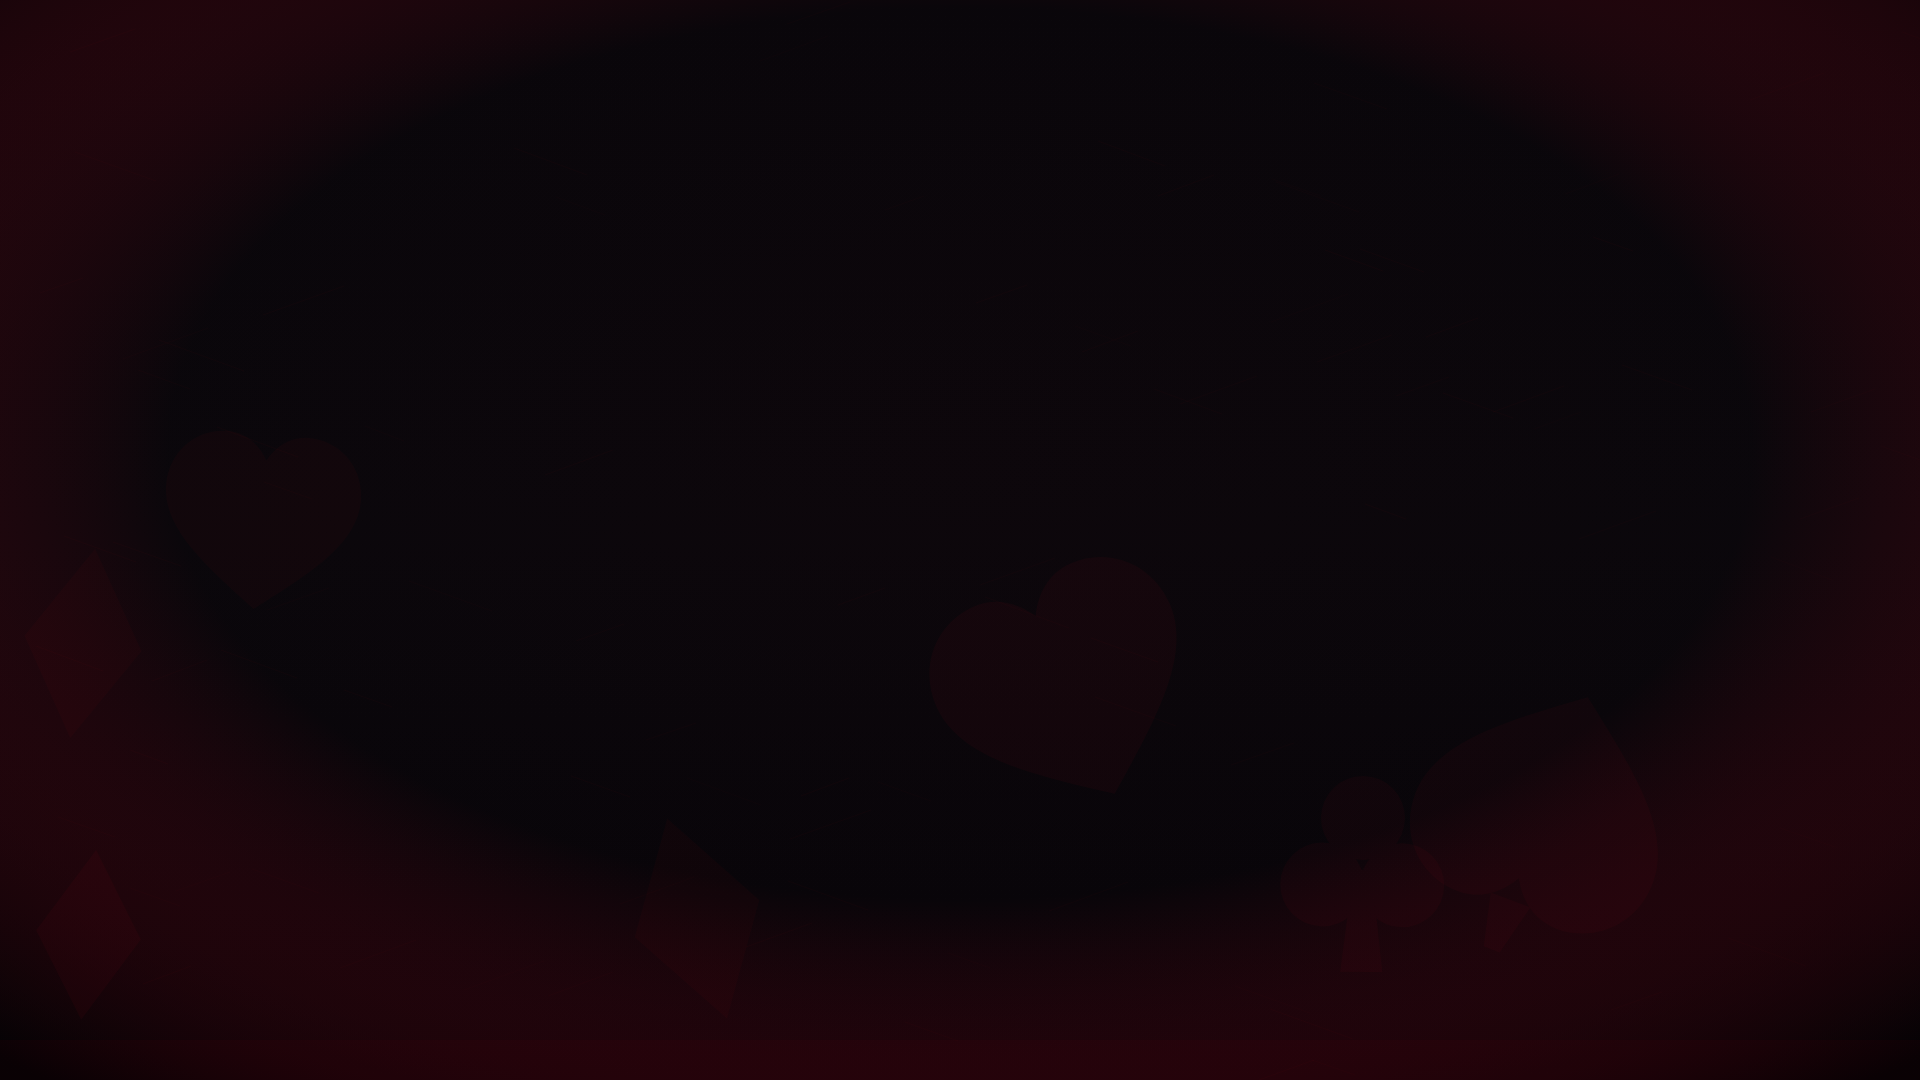
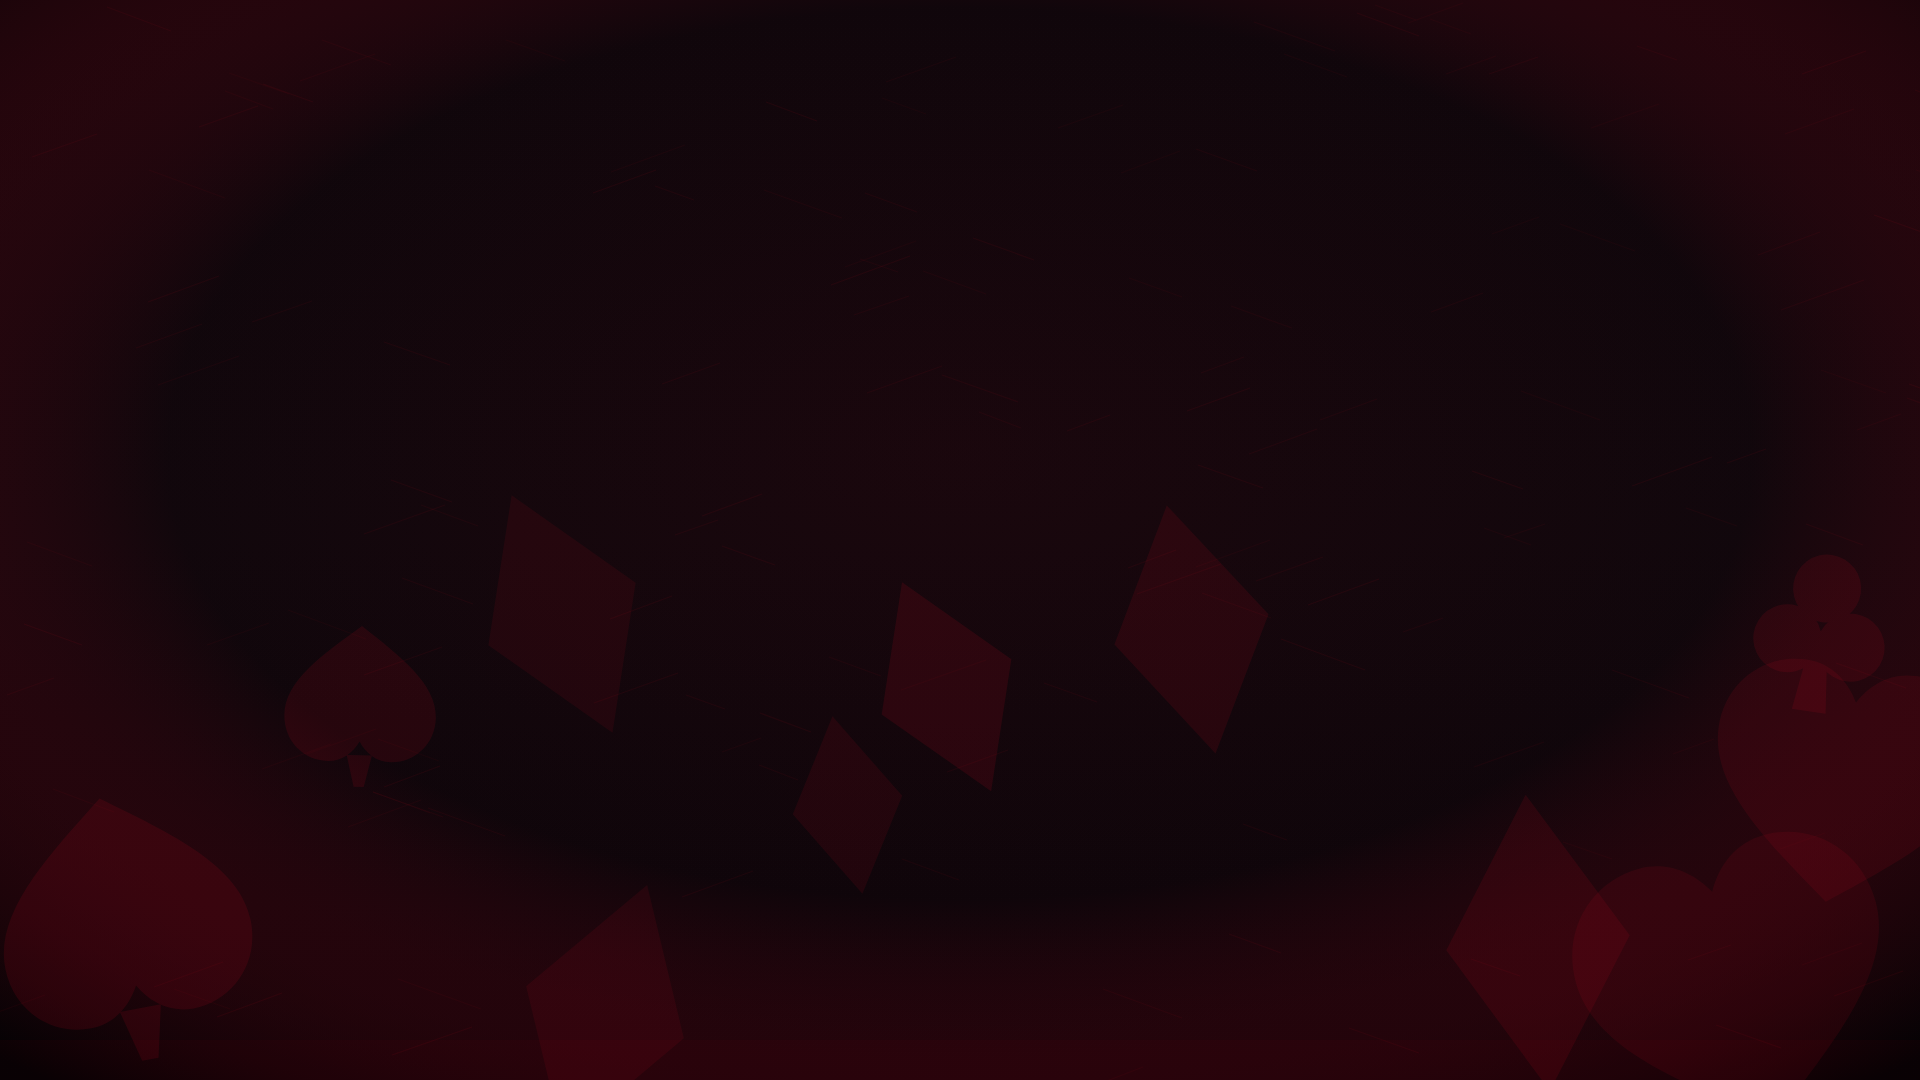
Ship v1.15: richer background images + upload-your-own-background
- The felt-table backgrounds from v1.14 were tuned so conservatively
  they barely read as an image at all. Turned up the suit-watermark and
  weave-texture opacity so it's clearly a real background, still no
  glow/light sources anywhere.
- New feature: upload your own background image from the table vibe
  picker. Stored as a data URL in localStorage (device-only, capped at
  3MB), applied immediately via a --bg-image CSS var override, and
  persisted across reloads through the existing beforeInteractive
  theme-init script so there's no flash back to the default on load.
  Picking a built-in vibe clears the custom image and reverts to that
  vibe's background.

diff --git a/src/components/game/ThemePicker.tsx b/src/components/game/ThemePicker.tsx
@@ -1,7 +1,7 @@
 "use client";
 
-import { useEffect, useState } from "react";
-import { Palette } from "lucide-react";
+import { useEffect, useRef, useState } from "react";
+import { ImageUp, Palette, X } from "lucide-react";
 import { Button } from "@/components/ui/button";
 import {
   Dialog,
@@ -10,7 +10,13 @@ import {
   DialogTitle,
   DialogTrigger,
 } from "@/components/ui/dialog";
-import { DEFAULT_THEME_ID, THEME_PRESETS, THEME_STORAGE_KEY } from "@/lib/themePresets";
+import {
+  CUSTOM_BG_MAX_BYTES,
+  CUSTOM_BG_STORAGE_KEY,
+  DEFAULT_THEME_ID,
+  THEME_PRESETS,
+  THEME_STORAGE_KEY,
+} from "@/lib/themePresets";
 import { cn } from "@/lib/utils";
 
 function readStoredTheme(): string {
@@ -18,9 +24,17 @@ function readStoredTheme(): string {
   return localStorage.getItem(THEME_STORAGE_KEY) ?? DEFAULT_THEME_ID;
 }
 
+function hasCustomBg(): boolean {
+  if (typeof window === "undefined") return false;
+  return !!localStorage.getItem(CUSTOM_BG_STORAGE_KEY);
+}
+
 export function ThemePicker() {
   const [open, setOpen] = useState(false);
   const [current, setCurrent] = useState(readStoredTheme);
+  const [customBg, setCustomBg] = useState(hasCustomBg);
+  const [uploadError, setUploadError] = useState<string | null>(null);
+  const fileInputRef = useRef<HTMLInputElement>(null);
 
   useEffect(() => {
     document.documentElement.dataset.theme = current;
@@ -29,6 +43,55 @@ export function ThemePicker() {
   function pick(id: string) {
     localStorage.setItem(THEME_STORAGE_KEY, id);
     setCurrent(id);
+    // A preset vibe should show that vibe's own background — drop any
+    // custom upload so it doesn't keep overriding --bg-image.
+    if (customBg) {
+      localStorage.removeItem(CUSTOM_BG_STORAGE_KEY);
+      document.documentElement.style.removeProperty("--bg-image");
+      setCustomBg(false);
+    }
+  }
+
+  function handleFile(e: React.ChangeEvent<HTMLInputElement>) {
+    const file = e.target.files?.[0];
+    e.target.value = "";
+    if (!file) return;
+    setUploadError(null);
+
+    if (!file.type.startsWith("image/")) {
+      setUploadError("That's not an image file.");
+      return;
+    }
+    if (file.size > CUSTOM_BG_MAX_BYTES) {
+      setUploadError(`Keep it under ${Math.round(CUSTOM_BG_MAX_BYTES / 1_000_000)}MB.`);
+      return;
+    }
+
+    const reader = new FileReader();
+    reader.onload = () => {
+      const dataUrl = reader.result;
+      if (typeof dataUrl !== "string") {
+        setUploadError("Couldn't read that image.");
+        return;
+      }
+      try {
+        localStorage.setItem(CUSTOM_BG_STORAGE_KEY, dataUrl);
+      } catch {
+        setUploadError("That image is too big to save — try a smaller one.");
+        return;
+      }
+      document.documentElement.style.setProperty("--bg-image", `url("${dataUrl}")`);
+      setCustomBg(true);
+    };
+    reader.onerror = () => setUploadError("Couldn't read that image.");
+    reader.readAsDataURL(file);
+  }
+
+  function clearCustomBg() {
+    localStorage.removeItem(CUSTOM_BG_STORAGE_KEY);
+    document.documentElement.style.removeProperty("--bg-image");
+    setCustomBg(false);
+    setUploadError(null);
   }
 
   return (
@@ -53,7 +116,7 @@ export function ThemePicker() {
               onClick={() => pick(t.id)}
               className={cn(
                 "flex items-center gap-3 rounded-lg border px-3 py-2 text-left transition-colors",
-                current === t.id
+                current === t.id && !customBg
                   ? "border-primary bg-primary/10"
                   : "border-border hover:border-foreground/30",
               )}
@@ -62,6 +125,36 @@ export function ThemePicker() {
               <span className="font-medium">{t.name}</span>
             </button>
           ))}
+        </div>
+
+        <div className="mt-1 space-y-2 border-t border-border/60 pt-3">
+          <p className="text-xs font-medium tracking-widest text-muted-foreground uppercase">
+            Custom background
+          </p>
+          {customBg ? (
+            <div className="flex items-center justify-between gap-2 rounded-lg border border-primary/40 bg-primary/10 px-3 py-2">
+              <span className="text-sm font-medium">Using your own image</span>
+              <Button variant="ghost" size="icon-sm" aria-label="Remove custom background" onClick={clearCustomBg}>
+                <X className="size-4" />
+              </Button>
+            </div>
+          ) : (
+            <Button variant="outline" className="w-full gap-2" onClick={() => fileInputRef.current?.click()}>
+              <ImageUp className="size-4" />
+              Upload an image
+            </Button>
+          )}
+          <input
+            ref={fileInputRef}
+            type="file"
+            accept="image/*"
+            className="hidden"
+            onChange={handleFile}
+          />
+          {uploadError && <p className="text-xs text-destructive">{uploadError}</p>}
+          <p className="text-xs text-muted-foreground">
+            Stays on this device only, under {Math.round(CUSTOM_BG_MAX_BYTES / 1_000_000)}MB. Pick a vibe above to go back to a built-in background.
+          </p>
         </div>
       </DialogContent>
     </Dialog>

diff --git a/src/app/layout.tsx b/src/app/layout.tsx
@@ -2,7 +2,7 @@ import type { Metadata } from "next";
 import { Oswald, Geist_Mono, Butcherman } from "next/font/google";
 import Script from "next/script";
 import { TooltipProvider } from "@/components/ui/tooltip";
-import { THEME_STORAGE_KEY } from "@/lib/themePresets";
+import { THEME_STORAGE_KEY, CUSTOM_BG_STORAGE_KEY } from "@/lib/themePresets";
 import "./globals.css";
 
 const oswald = Oswald({
@@ -37,7 +37,12 @@ export default function RootLayout({ children }: LayoutProps<"/">) {
     >
       <body className="min-h-full flex flex-col bg-background text-foreground">
         <Script id="theme-init" strategy="beforeInteractive">
-          {`try{var t=localStorage.getItem(${JSON.stringify(THEME_STORAGE_KEY)});if(t)document.documentElement.dataset.theme=t;}catch(e){}`}
+          {`try{
+            var t=localStorage.getItem(${JSON.stringify(THEME_STORAGE_KEY)});
+            if(t)document.documentElement.dataset.theme=t;
+            var b=localStorage.getItem(${JSON.stringify(CUSTOM_BG_STORAGE_KEY)});
+            if(b)document.documentElement.style.setProperty("--bg-image","url(\\""+b+"\\")");
+          }catch(e){}`}
         </Script>
         <TooltipProvider delayDuration={150}>{children}</TooltipProvider>
       </body>

diff --git a/src/lib/changelog.ts b/src/lib/changelog.ts
@@ -7,6 +7,15 @@ export interface ChangelogEntry {
 
 export const CHANGELOG: ChangelogEntry[] = [
   {
+    version: "1.15",
+    date: "2026-08-06",
+    title: "Backgrounds you can actually see, plus upload your own",
+    changes: [
+      "v1.14's felt background was so subtle it barely showed up — turned up the suit watermarks and table texture so it actually reads as a real background instead of a flat dark screen, still no glow anywhere.",
+      "New: upload your own background image from the table vibe picker (🎨, top corner). Stays on this device only, swap back to a built-in vibe any time to drop it.",
+    ],
+  },
+  {
     version: "1.14",
     date: "2026-08-06",
     title: "New backgrounds, take three: a dark felt table instead of an alley",

diff --git a/src/lib/themePresets.ts b/src/lib/themePresets.ts
@@ -14,3 +14,7 @@ export const THEME_PRESETS: ThemePreset[] = [
 
 export const DEFAULT_THEME_ID = "crimson";
 export const THEME_STORAGE_KEY = "chamber-seven:theme";
+export const CUSTOM_BG_STORAGE_KEY = "chamber-seven:custom-bg";
+/** Roughly caps the base64-encoded data URL well under typical per-origin
+ * localStorage quotas (~5MB), leaving headroom for everything else stored there. */
+export const CUSTOM_BG_MAX_BYTES = 3_000_000;
